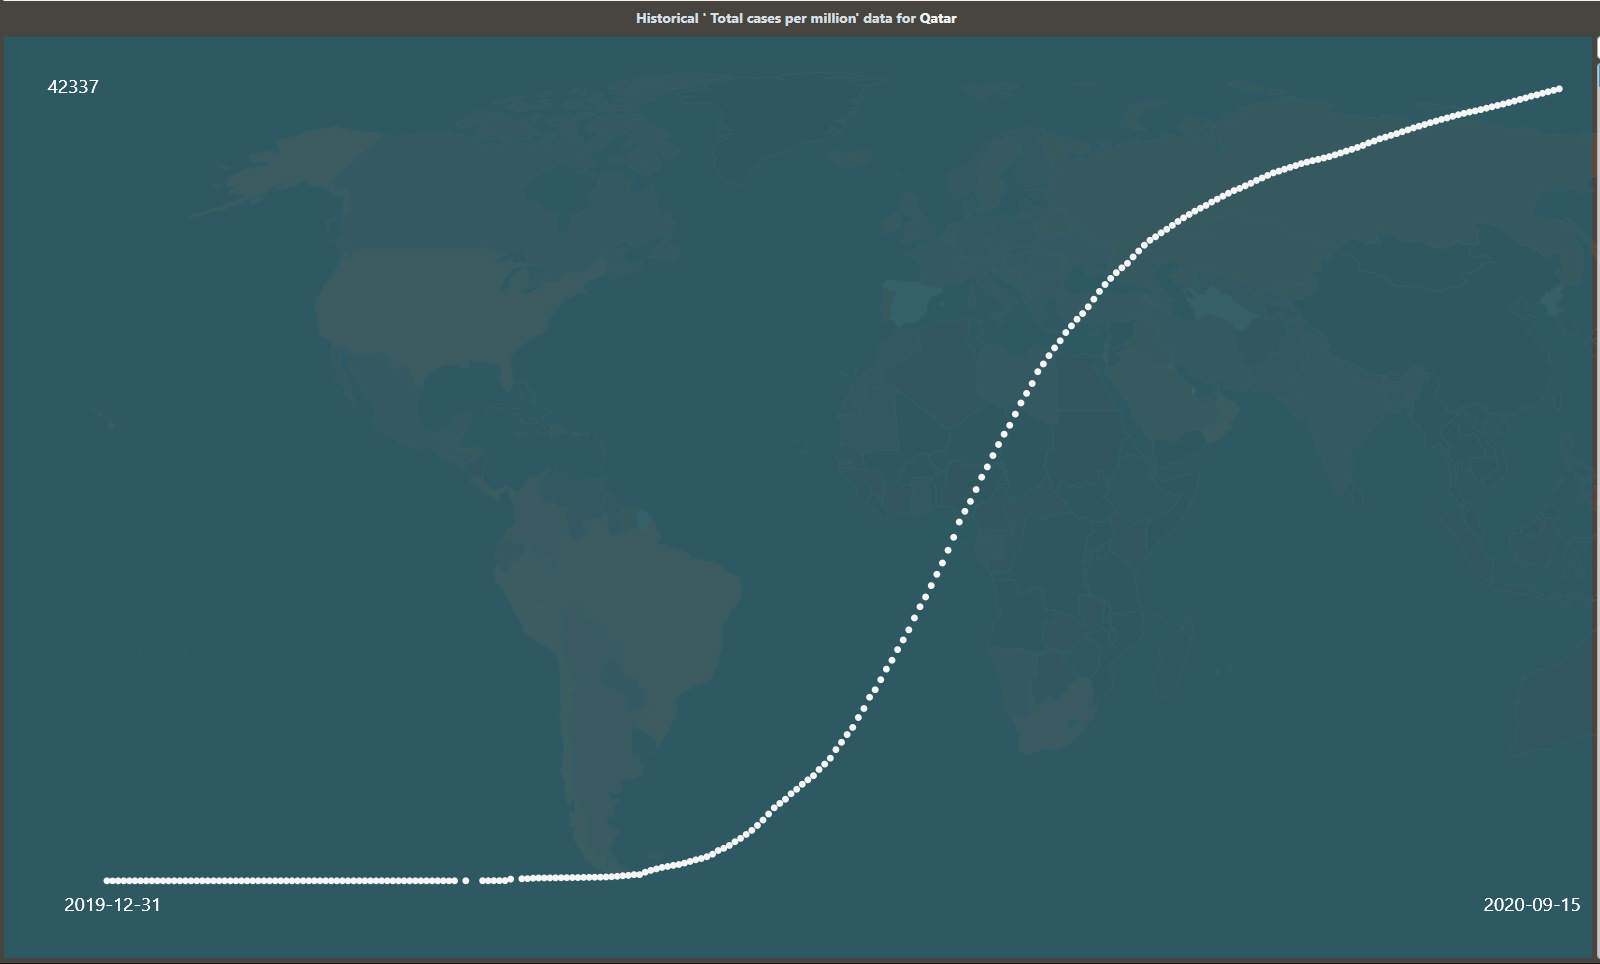
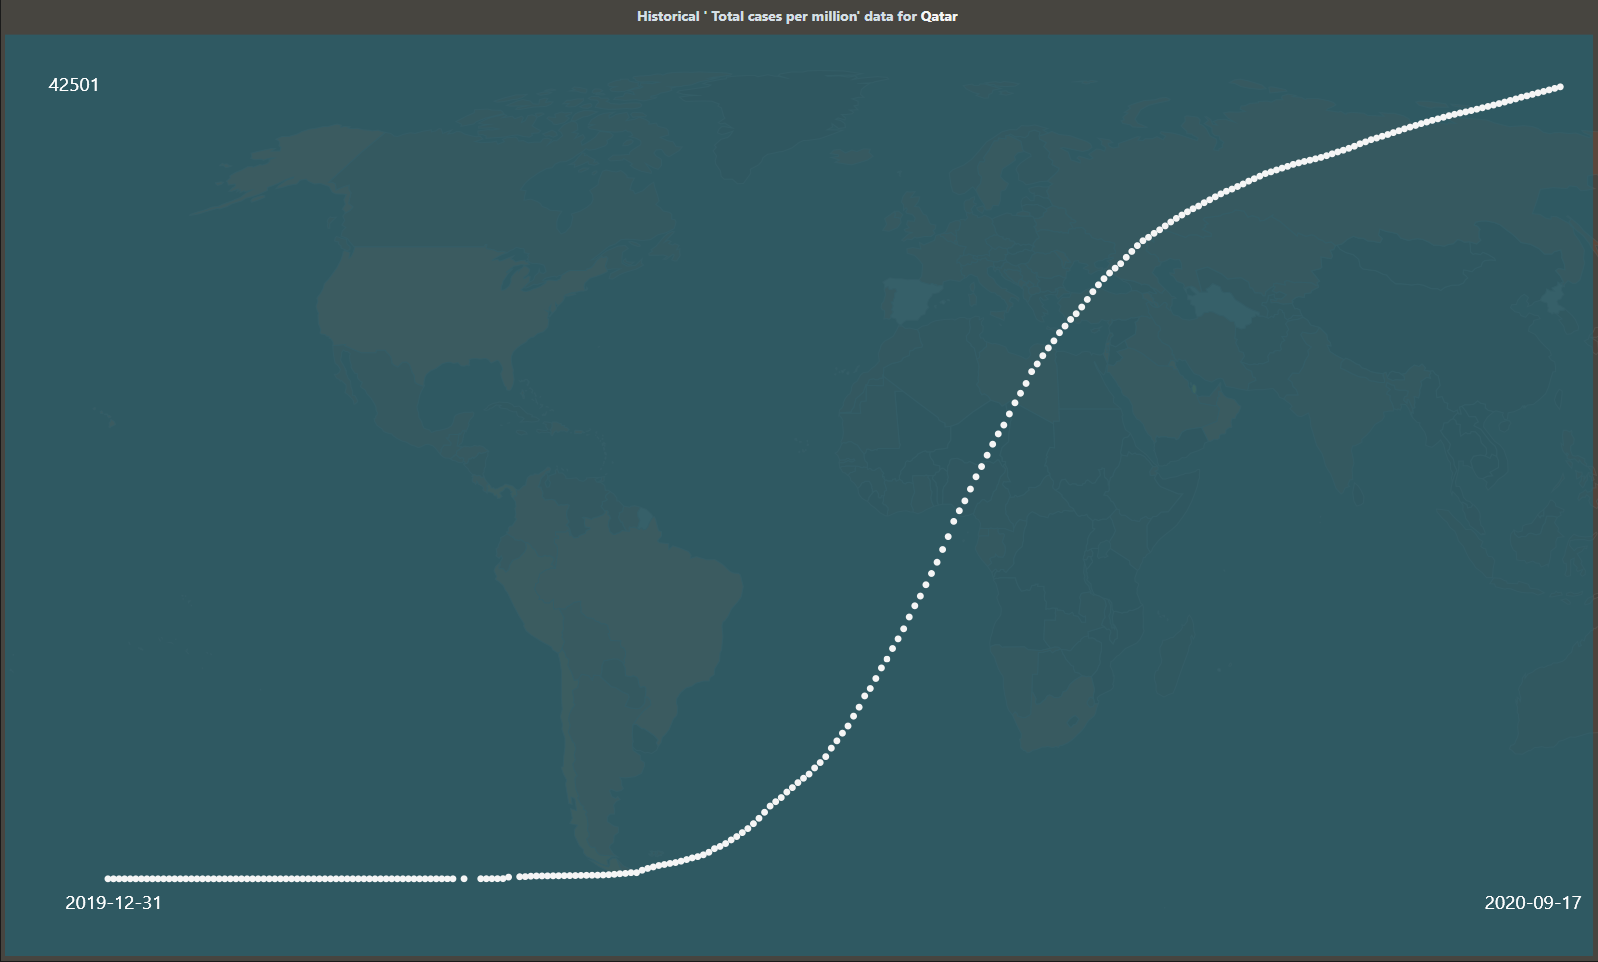
Update 20202-09-17

diff --git a/index.md b/index.md
@@ -9,17 +9,17 @@ Let's start with this graph for Qatar, which tops the list of countries ordered 
 
 ![Figure 1](/img/img002.png)
 
-It shows that in Qatar this indicator rose fast in May-June 2020 and then it slowed down towards a plateau. So, Qatar should be in pretty bad shape by now (Sep 2020) one would think, right? Not really. Let's have a look at <b>Active cases per million</b>.
+It shows that in Qatar this indicator rose fast in May-June 2020 and then it slowed down to a plateau. So, Qatar should be in pretty bad shape by now (Sep 2020) one would think, right? Not really. Let's have a look at <b>Active cases per million</b>.
 
 ![Figure 2](/img/img004.png)
 
-Notice how this indicator dropped dramatically after peaking out at the beginning of June. Let me rewrite this: after reaching around 12000 active cases/million on 2020-05-27, the value of this indicator dropped tenfold by mid July and remained stable. How is this possible? Let's have look at the <b>Positive rate</b>.
+Notice how this indicator dropped dramatically after peaking out at the beginning of June. Let me rewrite this: after reaching around 12000 active cases/million on 2020-05-27, this indicator dropped tenfold by mid July and remained stable since then. How is this possible? Let's have look at the <b>Positive rate</b>.
 
 ![Figure 3](/img/img003.png)
 
 It shows that Qatar successfully controlled the transmission of the disease beginning in July. <b>Active cases per million</b> dropped almost in sync with the <b>Positive rate</b>.
 
-Let's see what the situation was at the same time in a few other countries: Unites States, France, Spain, Netherlands, Sweden, and Israel. I chose these countries because they too are near the top on the <b>Active cases per million</b> list, as can be seen on the heat map.
+Let's see what the situation was at that time in a few other countries: Unites States, France, Spain, Netherlands, Sweden, and Israel. I chose these countries because they too are near the top on the <b>Active cases per million</b> list, as can be seen on the heat map.
 
 ![Figure 4](/img/img012.png)
 
